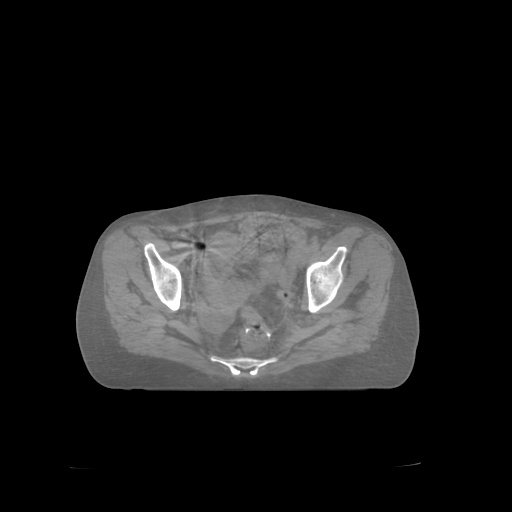
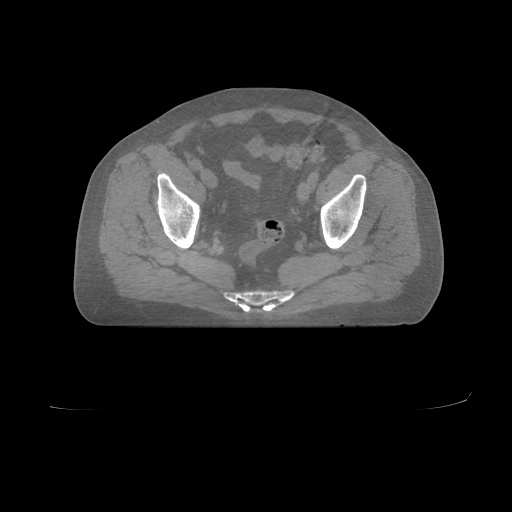
Fix hu scaling bug

Changed region(s): [[0.125, 0.1562, 0.875, 0.7812]]

diff --git a/server/utils/load_dicom.py b/server/utils/load_dicom.py
@@ -10,14 +10,36 @@ def read_dicom(path):
     g = glob.glob(os.path.join(path, '*'))
     slices = [pydicom.read_file(s) for s in g]
 
+    # see dicom information
+    # print(slices[0])
+
+    slope = slices[0].RescaleSlope
+    intercept = slices[0].RescaleIntercept
+
+    # get pixel
+    slices = [get_pixel(s) for s in slices]
+
+    # scale hu value
+    slices = [scale_hu(s, slope, intercept) for s in slices]
+    # print(np.min(slices[0]), np.max(slices[0]))
+
     # adjust hu value
     slices = [hu_window(s, window_level=0, window_width=1000) for s in slices]
 
     return slices
 
 
-def hu_window(scan, window_level=40, window_width=80, show_hist=False):
+def get_pixel(scan):
     scan = scan.pixel_array.copy()
+    return scan
+
+
+def scale_hu(scan, slope, intercept):
+    # scan = scan, (scan.min(), scan.max()), (-1000, 1000))
+    return scan * slope + intercept
+
+
+def hu_window(scan, window_level=40, window_width=80, show_hist=False):
     window = [window_level-window_width/2, window_width/2-window_level]
 
     scan = np.where(scan < window[0], window[0], scan)

diff --git a/server/inference_debug.py b/server/inference_debug.py
@@ -1,0 +1,39 @@
+import model.model as model
+import model.fit as fit
+import utils.load_dicom as load_dicom
+import numpy as np
+from cv2 import cv2
+import os
+
+
+def inference(path):
+
+    # define window level and window width
+    WL = 0
+    WW = 1000
+
+    # init model
+    net = model.get_model(os.path.join(
+        path, 'weights/save_model_unet_resnet152.pth'))
+
+    # read dicom img
+    slices = load_dicom.read_dicom(os.path.join(path, 'input'))
+
+    # fit model
+    pred = fit.fit(net, slices[0])
+
+    # save the results to output/
+    s = ((slices[0] + WW/2) / WW * 255).astype(np.uint8)
+    pr = ((pred - np.min(pred)) / (np.max(pred) -
+                                   np.min(pred)) * 255).astype(np.uint8)
+
+    cv2.imwrite(os.path.join(path, 'output/ori.jpg'), s)
+    cv2.imwrite(os.path.join(path, 'output/proc.jpg'), pr)
+
+    print('result saved!')
+
+
+if __name__ == '__main__':
+    path = '.'
+
+    inference(path)
